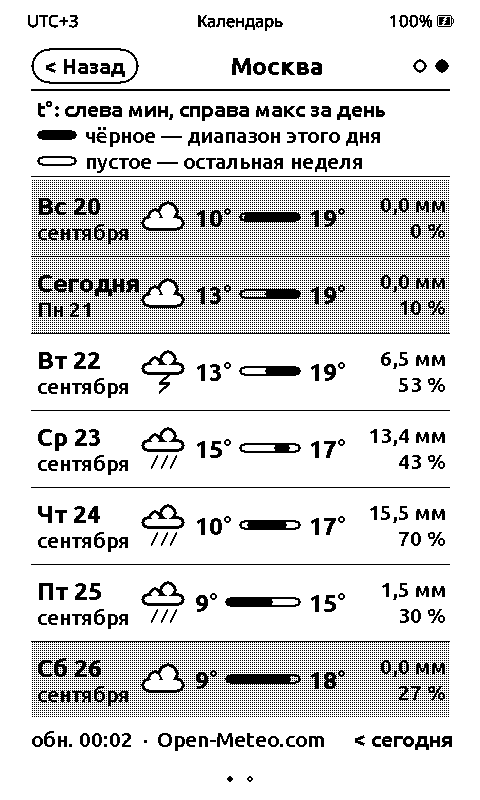
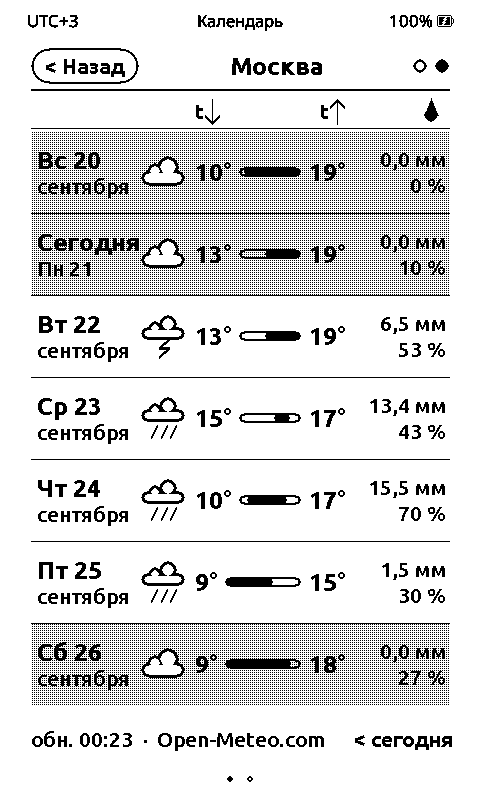
«7 дней»: шапка колонок значками вместо текстовой легенды

Changed region(s): [[0.0625, 0.125, 0.9375, 0.9375], [0.5, 0.25, 0.625, 0.2812]]

diff --git a/overlay/src/activities/apps/standby/CalendarDetail.cpp b/overlay/src/activities/apps/standby/CalendarDetail.cpp
@@ -55,37 +55,23 @@ struct Txt {
   const char* noFcHint;
   const char* hourly;    // «сегодня»-страница: заголовок по часам
   const char* cap;       // подпись под графиком
-  // Легенда «7 дней»: что за числа по краям полосы и что значат её чёрная и пустая части.
-  const char* legTemp;    // портрет, жирная строка
-  const char* legFill;    // портрет: чёрная часть
-  const char* legEmpty;   // портрет: пустая часть
-  const char* legTempL;   // ландшафт, одна строка: числа
-  const char* legFillL;   // …чёрная часть
-  const char* legEmptyL;  // …пустая часть
 };
 
 const Txt kRu = {"Назад", "Сегодня", "сегодня", "завтра", "вчера", "через %d дн.", "%d дн. назад", "День",
                  "Солнце", "Луна", "Погода", "освещена %d %%", "лунный день %d", "Полнолуние", "новолуние",
                  "%c%d мин к вчера", "Прогноз доступен на 7 дней вперёд", "7 дней",
                  "Загрузится при подключении к Wi-Fi", "сегодня",
-                 "Температура · осадки % · ночь",
-                 "t\xC2\xB0: слева мин, справа макс за день", "чёрное — диапазон этого дня",
-                 "пустое — остальная неделя", "t\xC2\xB0: мин слева, макс справа", "этот день",
-                 "остальная неделя"};
+                 "Температура · осадки % · ночь"};
 const Txt kEn = {"Back", "Today", "today", "tomorrow", "yesterday", "in %d days", "%d days ago", "Day",
                  "Sun", "Moon", "Weather", "%d %% lit", "lunar day %d", "Full moon", "new moon",
                  "%c%d min vs yesterday", "Forecast covers the next 7 days", "7 days",
                  "Loads when Wi-Fi is available", "today",
-                 "Temp. · rain % · night",
-                 "t\xC2\xB0: min on the left, max on the right", "black = this day's range",
-                 "empty = rest of the week", "t\xC2\xB0: min left, max right", "this day", "rest of week"};
+                 "Temp. · rain % · night"};
 const Txt kDe = {"Zurück", "Heute", "heute", "morgen", "gestern", "in %d Tagen", "vor %d Tagen", "Tag",
                  "Sonne", "Mond", "Wetter", "%d %% hell", "Mondtag %d", "Vollmond", "Neumond",
                  "%c%d Min zu gestern", "Vorhersage für die nächsten 7 Tage", "7 Tage",
                  "Wird bei WLAN geladen", "heute",
-                 "Temp. · Regen % · Nacht",
-                 "t\xC2\xB0: links min, rechts max des Tages", "schwarz = Bereich dieses Tages",
-                 "leer = Rest der Woche", "t\xC2\xB0: links min, rechts max", "dieser Tag", "übrige Woche"};
+                 "Temp. · Regen % · Nacht"};
 
 const Txt& txt(Lang l) { return l == Lang::Ru ? kRu : l == Lang::De ? kDe : kEn; }
 
@@ -437,47 +423,6 @@ void drawWeatherToday(GfxRenderer& r, const Frame& f, const Ctx& c, const Txt& T
   drawHourTable(r, rx, ty, rw, rowH, hs, n, fc.utcOffsetSec, c);
 }
 
-// Легенда над списком дней: числа по краям полосы — минимум и максимум дня; сама полоса — шкала температур всей недели:
-// чёрная часть — где лежат температуры этого дня, пустая — остальной диапазон недели. Портрет — три строки, ландшафт — одна
-// (по высоте места нет). Возвращает высоту.
-int drawWeekLegend(GfxRenderer& r, int x, int y, int w, bool land, const Txt& T) {
-  const int lhS = lineH(r, kFontSmall);
-  constexpr int kSampleW = 40, kBarH = 10, kGap = 8;
-  auto sample = [&](int sx, int sy, bool filled) {  // образец полосы: сплошной или пустой
-    const int by = sy + (lhS - kBarH) / 2;
-    r.drawRoundedRect(sx, by, kSampleW, kBarH, 2, 5, true);
-    if (filled) r.fillRoundedRect(sx, by, kSampleW, kBarH, 5, Color::Black);
-  };
-  const int y0 = y;
-  if (!land) {
-    const Fit t(r, kFontSmall, T.legTemp, w - 12, kBold);
-    r.drawText(kFontSmall, x + 6, y, t.c_str(), true, kBold);
-    y += lhS + 2;
-    for (int k = 0; k < 2; ++k) {
-      sample(x + 6, y, k == 0);
-      const int tx = x + 6 + kSampleW + kGap;
-      const Fit t2(r, kFontSmall, k == 0 ? T.legFill : T.legEmpty, x + w - tx - 4);
-      r.drawText(kFontSmall, tx, y, t2.c_str(), true);
-      y += lhS + 2;
-    }
-  } else {
-    int cx = x + 6;
-    r.drawText(kFontSmall, cx, y, T.legTempL, true, kBold);
-    cx += textW(r, kFontSmall, T.legTempL, kBold) + 14;
-    for (int k = 0; k < 2; ++k) {
-      const char* lb = k == 0 ? T.legFillL : T.legEmptyL;
-      sample(cx, y, k == 0);
-      cx += kSampleW + kGap;
-      r.drawText(kFontSmall, cx, y, lb, true);
-      cx += textW(r, kFontSmall, lb) + 14;
-    }
-    y += lhS + 2;
-  }
-  y += 4;
-  r.drawLine(x, y - 3, x + w, y - 3, 1, true);
-  return y - y0;
-}
-
 void drawWeatherWeek(GfxRenderer& r, const Frame& f, const Ctx& c, const Txt& T, const WxView& v, int y) {
   const int pad = calendar_config::kSidePad;
   const int x = f.x + pad, w = f.w - 2 * pad;
@@ -498,10 +443,24 @@ void drawWeatherWeek(GfxRenderer& r, const Frame& f, const Ctx& c, const Txt& T,
   }
   if (gmax - gmin < 1.f) gmax = gmin + 1.f;
   const int lhT = lineH(r, kFontText), lhS = lineH(r, kFontSmall);
-  y += drawWeekLegend(r, x, y, w, f.land, T);
+  // Шапка колонок значками: t↓ (минимум дня), t↑ (максимум), капля (осадки), в ландшафте ещё ветер. Полоса между t↓ и t↑ —
+  // шкала недели; чем правее конец чёрной части, тем теплее день, поэтому отдельной подписи ей не нужно.
+  const int hdrH = glyphSize(r, kFontSmall) + 6;
   const int foot = lhS + 6;
-  const int rowH = std::clamp((f.bottom - foot - y) / fc.nDays, f.land ? 34 : 44, 82);
+  const int rowH = std::clamp((f.bottom - foot - (y + hdrH)) / fc.nDays, f.land ? 34 : 44, 82);
   const int col1 = f.land ? 150 : 110, col4 = f.land ? 190 : 96, colW = f.land ? 100 : 0;
+  {
+    const int iconH = std::min(44, rowH - 6);
+    const int hx0 = x + col1 + iconH + 10, hx1 = x + w - col4 - colW - 8;
+    const int px = x + w - colW - 4;
+    auto rightAt = [&](Glyph g, int right) { return right - (glyphTextW(r, kFontSmall, g, "") - 4); };
+    drawGlyphText(r, kFontSmall, Glyph::TempMin, hx0, y, "");
+    drawGlyphText(r, kFontSmall, Glyph::TempMax, rightAt(Glyph::TempMax, hx1), y, "");
+    drawGlyphText(r, kFontSmall, Glyph::Drop, rightAt(Glyph::Drop, px), y, "");
+    if (f.land) drawGlyphText(r, kFontSmall, Glyph::Wind, rightAt(Glyph::Wind, x + w - 4), y, "");
+    y += hdrH;
+    r.drawLine(x, y - 3, x + w, y - 3, 1, true);
+  }
   for (int i = 0; i < fc.nDays; ++i) {
     const auto& d = fc.d[i];
     const int ry = y + i * rowH;

diff --git a/CONCEPT.md b/CONCEPT.md
@@ -773,8 +773,8 @@ SIM_BUILD_ONLY=1 ./scripts/sim.sh     # только собрать
 
 Уточнения по замечаниям владельца: числа сетки — обычного начертания (Ubuntu Regular; `kGridDigitsBold = true` возвращает Medium — генератор
 выбирает гарнитуру по этой настройке, `static_assert` следит за согласованностью); мин/макс — «t↓ / t↑» (буква t — температура);
-длина дня — значок «дуга солнца» (слева восход, справа закат, на вершине солнце); экран «7 дней» получил легенду над списком:
-что означают числа слева и справа от полосы и что значат чёрная часть полосы (диапазон этого дня) и пустая (остальная неделя).
+длина дня — значок «дуга солнца» (слева восход, справа закат, на вершине солнце); экран «7 дней» подписан значками в шапке колонок
+(t↓ — минимум дня, t↑ — максимум, капля — осадки, в ландшафте ещё ветер); текстовая легенда про заливку и пустую часть полосы убрана по просьбе владельца.
 
 ---
 
